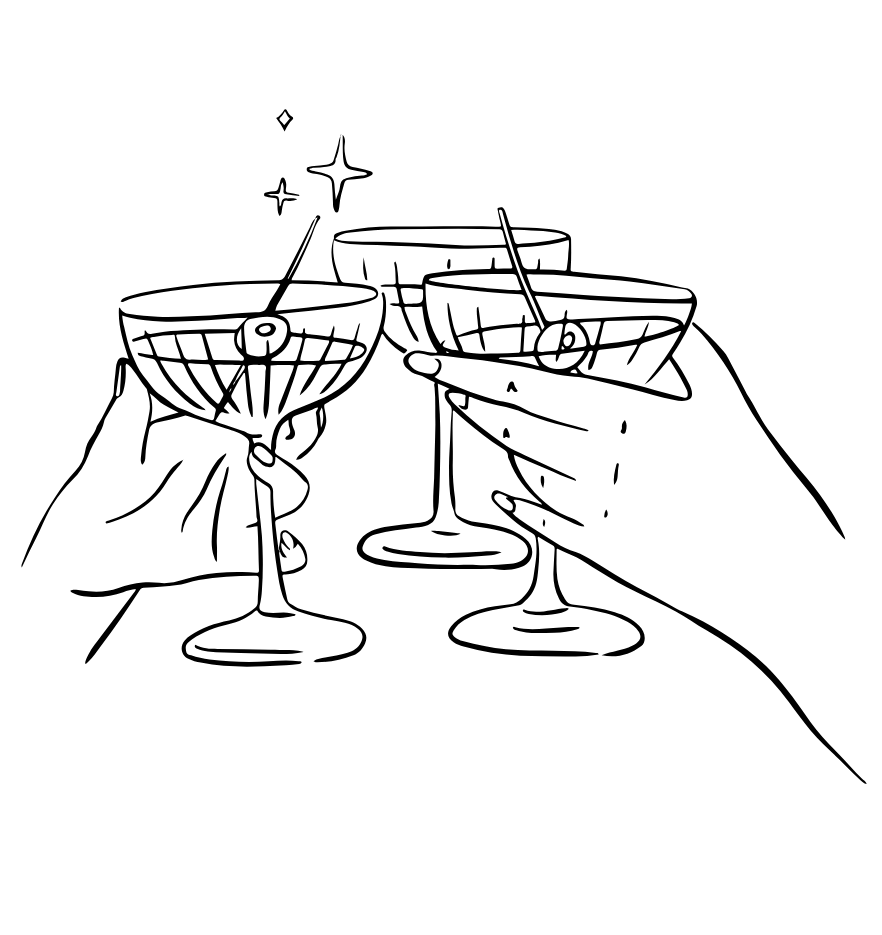
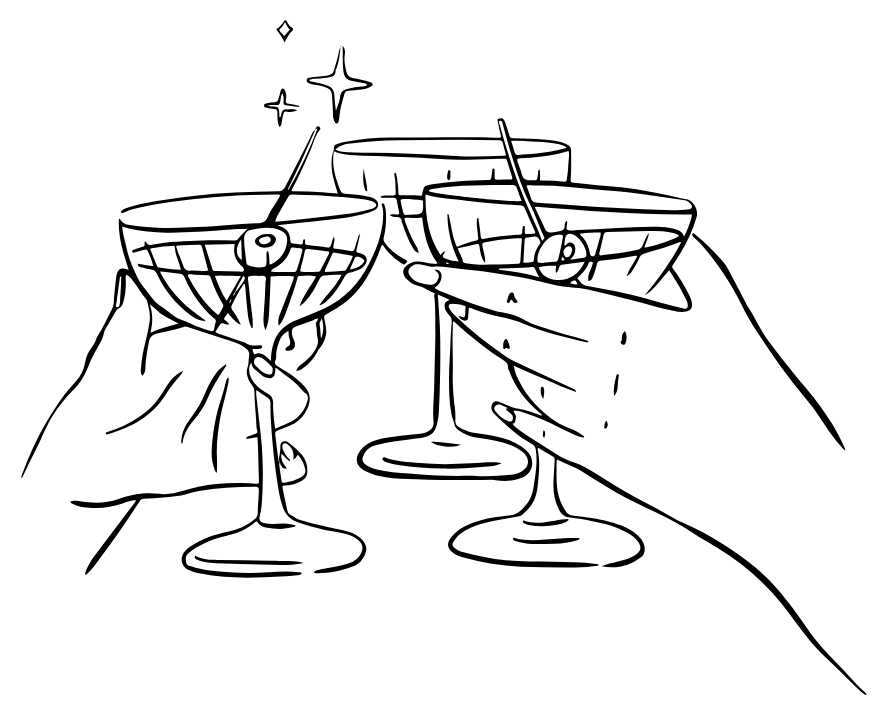
ukuran gambarevent

diff --git a/src/components/invite/event-section.tsx b/src/components/invite/event-section.tsx
@@ -253,7 +253,7 @@ export default function EventSection({
         <div className="mb-14">
           <div className="mx-auto flex w-full max-w-[620px] items-center justify-center gap-3 sm:gap-5 md:gap-6">
             <motion.div
-              className="h-[110px] w-auto shrink-0 sm:h-[180px] md:h-[190px]"
+              className="w-[140px] shrink-0 sm:w-[220px] md:w-[230px]"
               initial={fadeUpProps.initial}
               whileInView={fadeUpProps.whileInView}
               viewport={fadeUpProps.viewport}
@@ -263,8 +263,8 @@ export default function EventSection({
                 src="/images/gambarevent.png"
                 alt="Save The Date"
                 width={882}
-                height={935}
-                className="h-full w-auto object-contain drop-shadow-[0_8px_16px_rgba(0,0,0,0.08)]"
+                height={711}
+                className="h-auto w-full object-contain drop-shadow-[0_8px_16px_rgba(0,0,0,0.08)]"
               />
             </motion.div>
 
